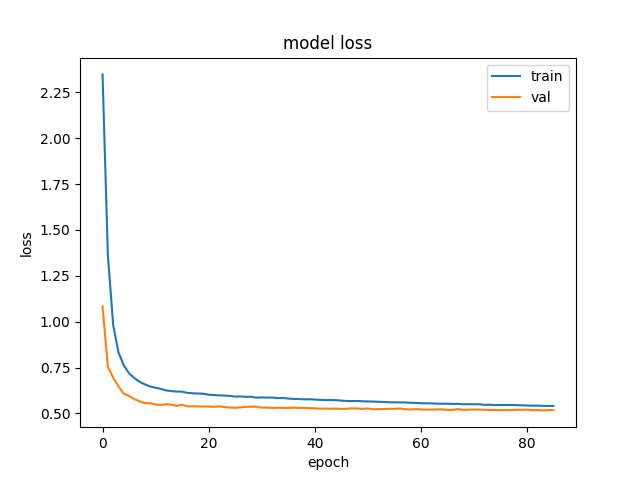
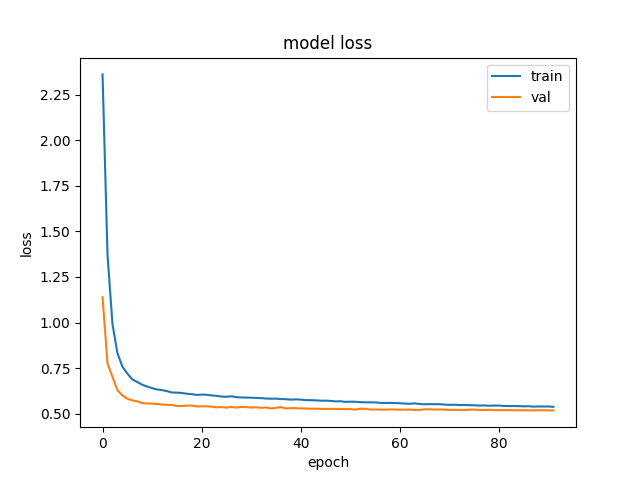
feat: improvemnts in vit mnist

diff --git a/src/exercises/vit-mnist/vit_mnist_improved.py b/src/exercises/vit-mnist/vit_mnist_improved.py
@@ -1,24 +1,20 @@
-# Alterações introduzidas em relação ao programa original (tr02c.py):
+# Alterações introduzidas em relação ao programa original:
 #
 # 1. DATA AUGMENTATION: RandomRotation (±18°), RandomTranslation (±10%),
-#    RandomZoom (±10%). Amplia a variabilidade dos dados de treino sem coletar
-#    novas amostras, reduzindo overfitting.
+#    RandomZoom (±10%).
 #
 # 2. WARMUP + COSINE DECAY: as primeiras 5 épocas aumentam o LR linearmente
-#    até o valor base; depois, decai em cosine até zero. Evita instabilidade
-#    inicial e garante convergência suave no final.
+#    até o valor base; depois, decai em cosine até zero.
 #
-# 3. LABEL SMOOTHING (ε=0.1): suaviza os alvos de 1.0 para 0.9, penalizando
-#    predições excessivamente confiantes e melhorando generalização.
+# 3. LABEL SMOOTHING (ε=0.1): suaviza os alvos de 1.0 para 0.9.
 #
 # 4. STOCHASTIC DEPTH (DropPath): zera aleatoriamente blocos inteiros do
 #    transformer durante o treino (taxa cresce linearmente de 0 a 10%).
-#    Regularização específica para redes profundas.
 #
-# 5. MAIS CAMADAS TRANSFORMER: 6 blocos (original: 4). Aumenta a capacidade
-#    do modelo de capturar relações complexas entre patches.
+# 5. MAIS CAMADAS TRANSFORMER: 6 blocos.
 #
-# 6. EARLY STOPPING com restauração dos melhores pesos (patience=20).
+# 6. TEST-TIME AUGMENTATION (TTA x10): média de 10 predições augmentadas
+#    na inferência
 
 import os
 os.environ["TF_CPP_MIN_LOG_LEVEL"] = "2"
@@ -50,6 +46,7 @@ MLP_HEAD_UNITS    = [2048, 1024]
 STOCH_DEPTH_MAX   = 0.10
 LABEL_SMOOTHING   = 0.10
 WARMUP_EPOCHS     = 5
+TTA_STEPS         = 10
 
 # ---------------------------------------------------------------------------
 # Dados
@@ -116,7 +113,7 @@ class StochasticDepth(layers.Layer):
         return cfg
 
 # ---------------------------------------------------------------------------
-# Patches e PatchEncoder (iguais ao original)
+# Patches e PatchEncoder
 # ---------------------------------------------------------------------------
 class Patches(layers.Layer):
     def __init__(self, patch_size):
@@ -219,12 +216,6 @@ model.compile(
     metrics=[keras.metrics.CategoricalAccuracy(name="accuracy")],
 )
 
-callbacks = [
-    keras.callbacks.EarlyStopping(
-        monitor="val_accuracy", patience=20, restore_best_weights=True
-    ),
-]
-
 # ---------------------------------------------------------------------------
 # Treinamento
 # ---------------------------------------------------------------------------
@@ -235,13 +226,12 @@ history = model.fit(
     batch_size=BATCH_SIZE,
     epochs=NUM_EPOCHS,
     validation_split=0.1,
-    callbacks=callbacks,
 )
 
 # ---------------------------------------------------------------------------
 # Curvas
 # ---------------------------------------------------------------------------
-output_dir = os.path.dirname(os.path.abspath(__file__))
+output_dir = os.path.dirname(os.path.abspath(__file__)) if "__file__" in globals() else os.getcwd()
 
 plt.figure()
 plt.plot(history.history["accuracy"],     label="train")
@@ -264,8 +254,23 @@ plt.savefig(os.path.join(output_dir, "vit_mnist_improved_loss.png"))
 plt.close()
 
 # ---------------------------------------------------------------------------
-# Avaliação final
+# Avaliação final com TTA
 # ---------------------------------------------------------------------------
-_, accuracy = model.evaluate(x_test, y_test_oh, verbose=0)
-print(f"\nTest accuracy: {round(accuracy * 100, 2)}%")
[email redacted]
+def tta_predict(images):
+    """Média de TTA_STEPS predições com augmentações aleatórias."""
+    probs = tf.zeros((tf.shape(images)[0], NUM_CLASSES))
+    for _ in range(TTA_STEPS):
+        aug = data_augmentation(images, training=True)
+        logits = model(aug, training=False)
+        probs = probs + tf.nn.softmax(logits)
+    return probs / TTA_STEPS
+
+tta_probs = tta_predict(x_test)
+tta_preds = tf.argmax(tta_probs, axis=1)
+tta_accuracy = tf.reduce_mean(tf.cast(tf.equal(tta_preds, tf.cast(y_test, tf.int64)), tf.float32)).numpy()
+
+_, base_accuracy = model.evaluate(x_test, y_test_oh, verbose=0)
+print(f"\nTest accuracy (sem TTA): {round(base_accuracy * 100, 2)}%")
+print(f"Test accuracy (com TTA x{TTA_STEPS}): {round(tta_accuracy * 100, 2)}%")
 print("(baseline original tr02c.py: 99.10%)")